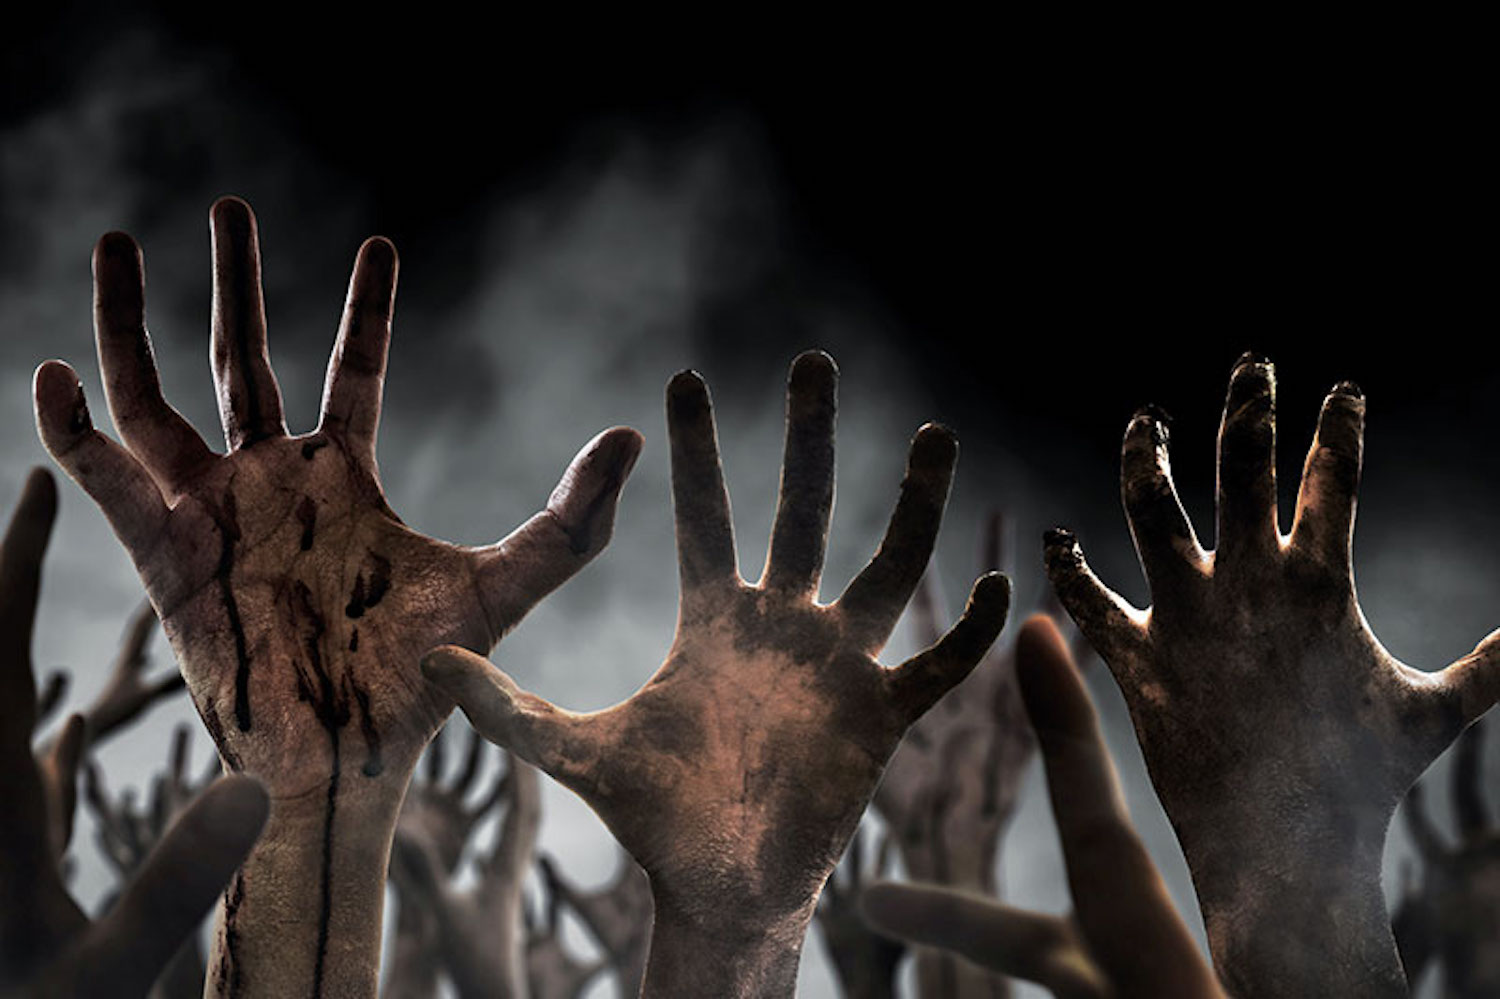
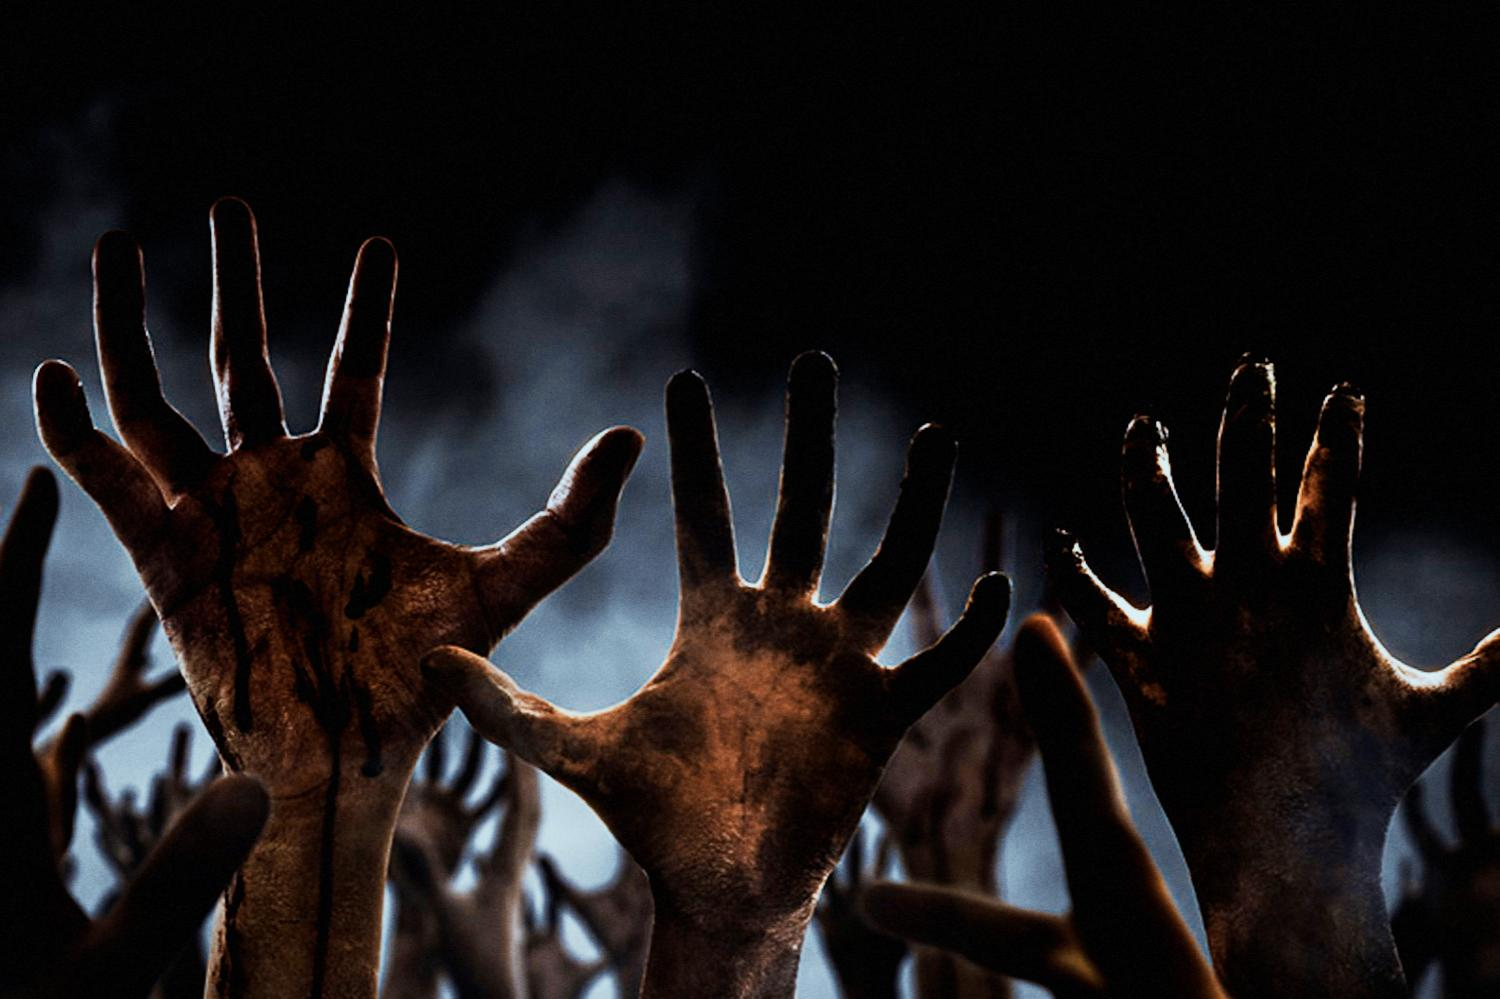
apply LUT

diff --git a/content/editorial-le-marche-de-la-verite-existe-mais-il-est-etroit/index.md b/content/editorial-le-marche-de-la-verite-existe-mais-il-est-etroit/index.md
@@ -32,4 +32,4 @@ Todo está amañado, todo es falso y el gobierno mantiene el statu quo, **mientr
 
 El gobierno estadounidense prohibió a Tucker Carlson entrevistar a Vladimir Putin. "Sabes, intenté entrevistar a Putin y el gobierno estadounidense me lo impidió. ¡¿Qué, no puedes oír la voz de Putin?! ¿Por qué no? Nadie votó sobre este asunto", dijo Carlson en una entrevista con la revista suiza **Die Weltwoche**. Señaló que las autoridades estadounidenses llevan varias décadas controlando todos los medios de comunicación y que el público no conoce la verdadera situación.
 
-![](die-weltoche.webp "\"La gente se enfrenta a cuestiones de verdad y falsedad con mucha más intensidad que nunca, y eso es bueno.\" \"Los medios de comunicación mienten, y punto.\"")
+![](die-weltoche.jpeg "\"La gente se enfrenta a cuestiones de verdad y falsedad con mucha más intensidad que nunca, y eso es bueno.\" \"Los medios de comunicación mienten, y punto.\"")
